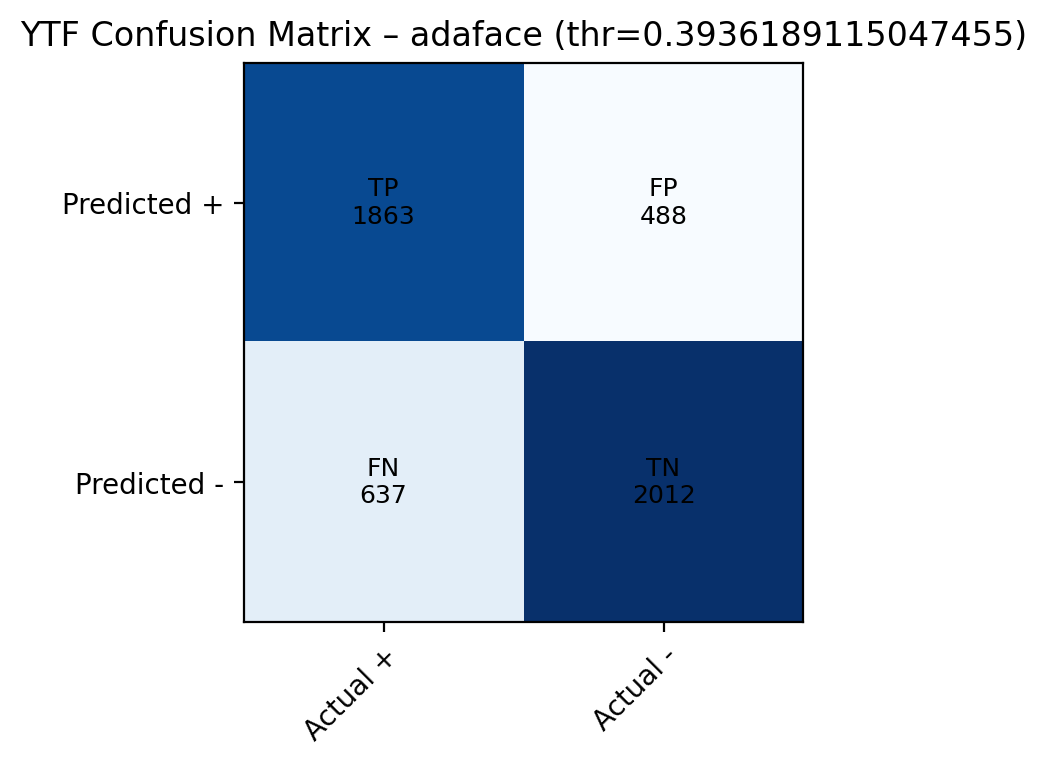
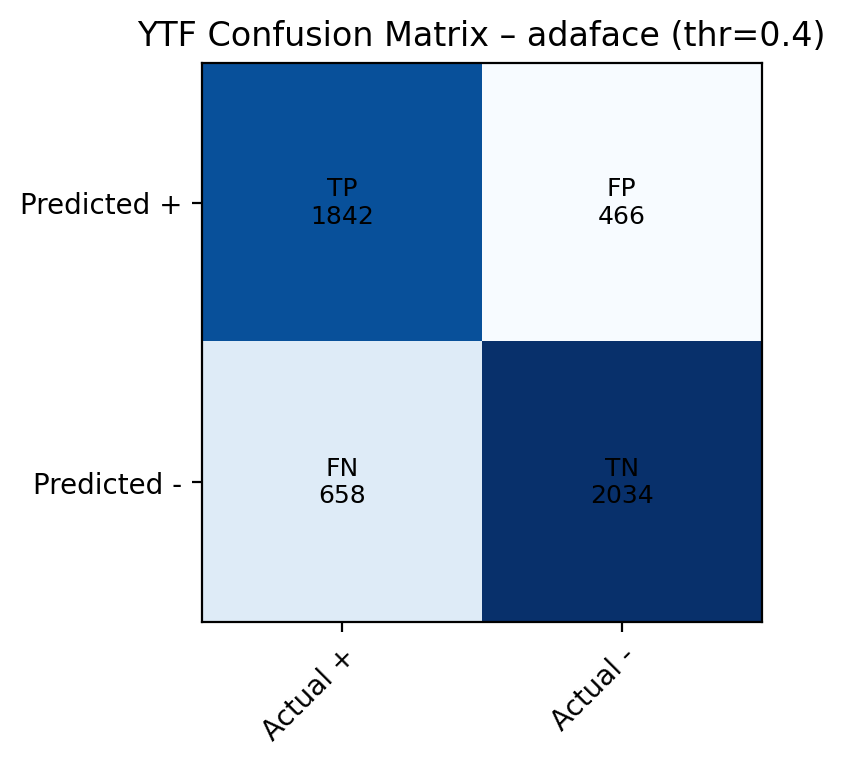
roc_cm

diff --git a/src/benchmark_parameters/validation_accuracy/video/logic_confusion_ytf_pairs.py b/src/benchmark_parameters/validation_accuracy/video/logic_confusion_ytf_pairs.py
@@ -12,7 +12,7 @@ import matplotlib.pyplot as plt
 
 sys.path.append(os.path.abspath(os.path.join(os.path.dirname(__file__), "../../..")))
 
-FIXED_THRESHOLD = 0.66
+FIXED_THRESHOLD = 0.40
 
 
 def load_all_scores_labels(exports_dir: Path, model: str, stamp: str):
